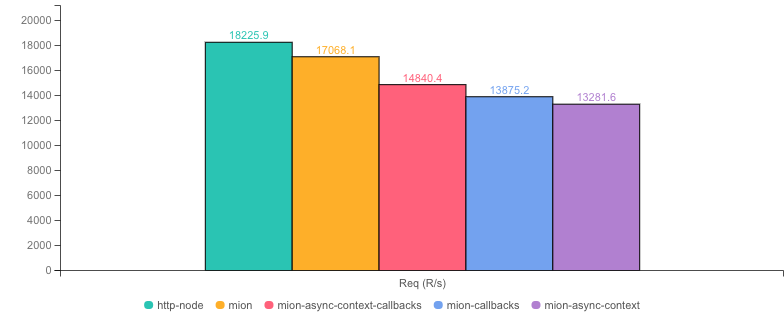
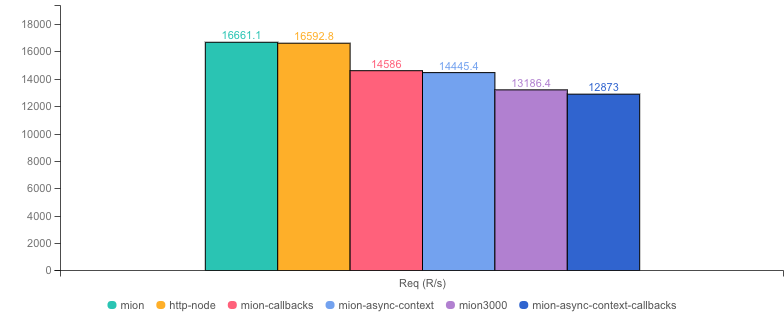
add memory chart to main benchmark readme and add mion 3000 routes test to mion options test

diff --git a/benchmark-compare.js b/benchmark-compare.js
@@ -49,14 +49,12 @@ async function getBenchmarkOptions() {
       name: "benchmark",
       choices: [
         {
-          name: "servers",
+          name: "servers: compare multiple libraries",
           value: "servers",
-          description: "compare multiple libraries",
         },
         {
-          name: "mion",
+          name: "mion options:s benchmarks mion using different settings and options",
           value: "mion",
-          description: "compare mion performance options",
         },
       ],
       validate: function (answer) {
@@ -79,15 +77,18 @@ async function runCompare() {
     const markdownChartImages = await getMarkdownCharts(outputResults);
 
     // memory series only available for mion benchmark
-    const memSeriesChartImages =
+    const memSeriesToDisplay =
       options.benchmark === "mion"
-        ? await getMarkdownChartMemSeries(
-            outputResults,
-            `memSeries`,
-            `Memory Series (MB)`,
-            chartsDirectory
-          )
-        : null;
+        ? ["mion", "mion3000", "http-node"]
+        : outputResults.map((result) => result.name);
+    const memSeriesChartImages = await getMarkdownChartMemSeries(
+      outputResults,
+      `memSeries`,
+      `Memory Series (MB)`,
+      chartsDirectory,
+      0,
+      memSeriesToDisplay
+    );
     await updateReadme(
       markdownChartImages,
       memSeriesChartImages,
@@ -119,7 +120,7 @@ async function updateReadme(
   const machineInfo = `${os.platform()} ${os.arch()} | ${
     os.cpus().length
   } vCPUs | ${(os.totalmem() / 1024 ** 3).toFixed(1)}GB Mem`;
-  const benchmarkMd = `### Benchmarks
+  const benchmarkMd = `## Benchmark Results
 
 * __Machine:__ ${machineInfo}
 * __Node:__ \`${process.version}\`
@@ -135,7 +136,7 @@ ${compareResults(true, outputResults)}
   const md = readFileSync(resultsMarkdownFilename, "utf8");
   writeFileSync(
     resultsMarkdownFilename,
-    md.split("### Benchmarks")[0] + benchmarkMd,
+    md.split("## Benchmark Results")[0] + benchmarkMd,
     "utf8"
   );
 }

diff --git a/benchmarks/mion3000.js b/benchmarks/mion3000.js
@@ -1,0 +1,22 @@
+"use strict";
+
+const { initHttp, addRoutes, routes } = require("../_compiled-apps/apps");
+const { startHttpServer } = require("@mionkit/http");
+
+// ###### check the apps/ directory for the original non compiled code
+// mion needs to be compiled from typescript to be able to generate runtime types metadata
+
+const totalRoutes = 3000;
+// this handler contains type information.
+const routerRoutes = {
+  ...routes,
+};
+for (let i = 0; i < totalRoutes; ++i) {
+  const defaultRoute = i % 2 === 0 ? routes["/"] : routes.updateUser;
+  routerRoutes[`route-${i}`] = defaultRoute;
+}
+
+initHttp({});
+addRoutes(routes);
+
+startHttpServer({ port: 3000 });

diff --git a/benchmark-bench.js b/benchmark-bench.js
@@ -44,14 +44,12 @@ async function getBenchmarkOptions() {
       name: "benchmark",
       choices: [
         {
-          name: "servers",
+          name: "servers => compare multiple libraries",
           value: "servers",
-          description: "compare multiple libraries",
         },
         {
-          name: "mion",
+          name: "mion options => benchmarks mion using different settings and options",
           value: "mion",
-          description: "compare mion performance options",
         },
       ],
       validate: function (answer) {

diff --git a/lib/chart-screenshot.js b/lib/chart-screenshot.js
@@ -72,9 +72,12 @@ module.exports.getMarkdownChartMemSeries = async function (
   metricName,
   metricLabel,
   chartDirectory,
-  maxToDisplay = 3
+  maxToDisplay = 3,
+  namesToDisplay = []
 ) {
-  const slicedResults = outputResults.slice(0, maxToDisplay);
+  const slicedResults = namesToDisplay.length
+    ? outputResults.filter((result) => namesToDisplay.includes(result.name))
+    : outputResults.slice(0, maxToDisplay);
   const columnsData = slicedResults.map((result) => [
     `${result.name}`,
     ...result.memSeries,

diff --git a/lib/packages-mion-options.js b/lib/packages-mion-options.js
@@ -42,6 +42,14 @@ const packages = {
     description:
       "using mion http with callbacks and sync call context `RouterOptions.useAsyncCallContext = true`",
   },
+  mion3000: {
+    hasRouter: true,
+    package: "@MionKit/compiled-app",
+    validation: "✓",
+    version: "0.1.0",
+    description:
+      "mion with 3000 routes loaded (should have the most memory usage)",
+  },
 };
 
 const choices = [];

diff --git a/README.md b/README.md
@@ -31,20 +31,26 @@
 # start the tests
 npm start
 
-# display results in a table
-npm run compare-t
+# update readmes in readmes
+npm run compare:summary
+
+# running all benchmarks and update all readmes
+npm run report
 ```
 
-## Other benchmarks
+### Cold start benchmarks
 
-- **Multiple mion settings:** [MION-OPTIONS.md](MION-OPTIONS.md)  
-  Running the same application but using different mion settings.
 - **Cold start times:** [METRICS.md](METRICS.md)  
   Cold start times are also indicative of how the [serverless version](https://github.com/MionKit/mion/tree/master/packages/serverless) could perform in this regard, as both `@MionKit/http` an `@MionKit/serverless` are just a wrapper around `@MionKit/router` which contains all the logic.
 
-## What's tested
+### Mion settings benchmarks
 
-The test consist of an `updateUser` request where the fields of the user must be validated, the `lastUpdate` field is a date that must be transformed into a JS Date (deserialized), then add one month to `lastUpdate` and then send back the response.
+- **Multiple mion settings:** [MION-OPTIONS.md](MION-OPTIONS.md)  
+  Running the same mion application but using different mion settings.
+
+### What's tested
+
+The test consist of an `updateUser` request where the fields of the user must be validated, the `lastUpdate` field is a date that must be transformed into a JS Date (deserialized), then add one month and send back in the response.
 
 ```ts
 export interface User {
@@ -67,7 +73,7 @@ export const routes: Routes = {
 // ### Express ###
 // A plugin must be used to parse the json body
 // validation must be done manually and user.lastUpdate must be deserialized manually into a date
-// in this example the complexity would be in the isUser and deserializeUser functions (check src code fo that)
+// in this case developer would have to manually write `isUser` and `deserializeUser` functions. (check src code fo those functions)
 app.post("/updateUser", function (req, res) {
   const rawUser = req.body?.updateUser;
   if (!isUser(rawUser)) throw "app error, invalid parameter, not a user";
@@ -77,12 +83,20 @@ app.post("/updateUser", function (req, res) {
 });
 ```
 
-### Benchmarks
+### Notes on current results
+
+mion is focused on being lightweight and fast so it can be run in serverless environments. We run the benchmarks before every PR gets merged to ensure there is no performance regression. In fact there are [PRs](https://github.com/MionKit/mion/pull/48) that has been rejected because of this.
+
+Our goal is to perform similar to fastify as it is the industry standard in terms of performance. Please always take benchmarks as general guidelines as you might obtain different results in your real world application. we just run the benchmarks to ensure there is no performance degradation when new features/fixes are added to mion.
+
+We are aware that the memory consumption is higher than other frameworks, this said it is mostly the baseline memory (when the server just started) and mion is actually less memory hungry under heavy workloads. This is due mostly due to our dependency on @deepkit/types for run time types. We are aware of this and plan to work on it in the future. Please note both mion and deepkit are still in beta an there is room for improvement.
+
+## Benchmark Results
 
 * __Machine:__ darwin x64 | 8 vCPUs | 16.0GB Mem
 * __Node:__ `v16.18.0`
-* __Run:__ Mon Jul 17 2023 22:59:01 GMT+0100 (Irish Standard Time)
-* __Method:__ `autocannon -c 100 -d 40.06 -p 10 localhost:3000` (two rounds; one to warm-up, one to measure)
+* __Run:__ Tue Jul 18 2023 22:01:37 GMT+0100 (Irish Standard Time)
+* __Method:__ `autocannon -c 100 -d 40.24 -p 10 localhost:3000` (two rounds; one to warm-up, one to measure)
 
 #### Req (R/s) 
 
@@ -108,14 +122,18 @@ app.post("/updateUser", function (req, res) {
 
 
 
+#### Memory Series (MB) 
+
+![benchmarks](assets/public/charts-servers/memSeries.png)
+
 
 
 |           | Version        | Router | Req (R/s)   | Latency (ms) | Output (Mb/s) | Max Memory (Mb) | Max Cpu (%) | Validation | Description                                                                                                |
 | :--       | --:            | --:    | :-:         | --:          | --:           | --:             | --:         | :-:        | :--                                                                                                        |
-| http-node | 16.18.0        | ✗      | 17858.5     | 55.47        | 4.56          | 82              | 120         | ✗          | Super basic and completely useless bare http server, should be the theoretical upper limit in performance. |
-| **mion**  | **0.1.0**      | **✓**  | **17249.7** | **57.47**    | **4.79**      | **225**         | **146**     | **✓**      | **validation and serialization out of the box**                                                            |
-| fastify   | 4.19.2         | ✓      | 16198.6     | 61.22        | 4.16          | 90              | 120         | -          | Validation is done using schemas and ajv. Schemas must be generated manually or using third party tools.   |
-| restify   | 8.6.1          | ✓      | 12033.8     | 82.56        | 3.10          | 104             | 118         | ✗          | Requires third party tools.                                                                                |
-| hapi      | 20.3.0         | ✓      | 7936.3      | 125.38       | 2.03          | 97              | 130         | ✗          | Manual validation using joi, or third party tools.                                                         |
-| deepkit   | 1.0.1-alpha.75 | ✓      | 5426.2      | 183.45       | 1.39          | 301             | 142         | ✓          | Automatic validation out of the box (The ones that made @deepkit/types), Their rpc is way more performant. |
-| express   | 4.18.2         | ✓      | 4615.0      | 215.68       | 1.18          | 112             | 125         | ✗          | needs third party tools, or third party tools                                                              |
+| http-node | 16.18.0        | ✗      | 16419.9     | 60.70        | 4.20          | 79              | 120         | ✗          | Super basic and completely useless bare http server, should be the theoretical upper limit in performance. |
+| **mion**  | **0.1.0**      | **✓**  | **16289.9** | **60.91**    | **4.52**      | **229**         | **144**     | **✓**      | **validation and serialization out of the box**                                                            |
+| fastify   | 4.19.2         | ✓      | 14725.8     | 67.41        | 3.78          | 88              | 118         | -          | Validation is done using schemas and ajv. Schemas must be generated manually or using third party tools.   |
+| restify   | 8.6.1          | ✓      | 11138.1     | 89.26        | 2.87          | 102             | 116         | ✗          | Requires third party tools.                                                                                |
+| hapi      | 20.3.0         | ✓      | 6941.5      | 143.40       | 1.77          | 102             | 135         | ✗          | Manual validation using joi, or third party tools.                                                         |
+| deepkit   | 1.0.1-alpha.75 | ✓      | 5289.1      | 188.17       | 1.35          | 318             | 159         | ✓          | Automatic validation out of the box (The ones that made @deepkit/types), Their rpc is way more performant. |
+| express   | 4.18.2         | ✓      | 4399.4      | 226.40       | 1.12          | 112             | 124         | ✗          | needs third party tools, or third party tools                                                              |

diff --git a/MION-OPTIONS.md b/MION-OPTIONS.md
@@ -24,12 +24,12 @@ There is no one size fits all when optimizing performance, so mion offers few se
 
 We show the benchmarks and let you take your own conclusions!!
 
-### Benchmarks
+## Benchmark Results
 
 * __Machine:__ darwin x64 | 8 vCPUs | 16.0GB Mem
 * __Node:__ `v16.18.0`
-* __Run:__ Mon Jul 17 2023 22:51:55 GMT+0100 (Irish Standard Time)
-* __Method:__ `autocannon -c 100 -d 40.02 -p 10 localhost:3000` (two rounds; one to warm-up, one to measure)
+* __Run:__ Tue Jul 18 2023 21:51:52 GMT+0100 (Irish Standard Time)
+* __Method:__ `autocannon -c 100 -d 40.06 -p 10 localhost:3000` (two rounds; one to warm-up, one to measure)
 
 #### Req (R/s) 
 
@@ -55,12 +55,6 @@ We show the benchmarks and let you take your own conclusions!!
 
 
 
-#### Max Cpu (%) 
-
-![benchmarks](assets/public/charts-mion/maxCpu.png)
-
-
-
 #### Memory Series (MB) 
 
 ![benchmarks](assets/public/charts-mion/memSeries.png)
@@ -69,8 +63,9 @@ We show the benchmarks and let you take your own conclusions!!
 
 |                              | Version   | Router | Req (R/s)   | Latency (ms) | Output (Mb/s) | Max Memory (Mb) | Max Cpu (%) | Validation | Description                                                                                     |
 | :--                          | --:       | --:    | :-:         | --:          | --:           | --:             | --:         | :-:        | :--                                                                                             |
-| http-node                    | 16.18.0   | ✗      | 18225.9     | 54.34        | 4.66          | 79              | 123         | ✗          | theoretical upper limit in performance.                                                         |
-| **mion**                     | **0.1.0** | **✓**  | **17068.1** | **58.07**    | **4.74**      | **224**         | **136**     | **✓**      | **using mion http with promises `HttpOptions.useCallbacks = false`**                            |
-| mion-async-context-callbacks | 0.1.0     | ✓      | 14840.4     | 66.85        | 4.71          | 101             | 121         | ✓          | using mion http with callbacks and sync call context `RouterOptions.useAsyncCallContext = true` |
-| mion-callbacks               | 0.1.0     | ✓      | 13875.2     | 71.51        | 4.41          | 214             | 139         | ✓          | using mion http with callbacks `HttpOptions.useCallbacks = true`                                |
-| mion-async-context           | 0.1.0     | ✓      | 13281.6     | 74.75        | 4.22          | 204             | 139         | ✓          | using mion http with promises and sync call context `RouterOptions.useAsyncCallContext = true`  |
+| **mion**                     | **0.1.0** | **✓**  | **16661.1** | **59.55**    | **4.62**      | **226**         | **148**     | **✓**      | **using mion http with promises `HttpOptions.useCallbacks = false`**                            |
+| http-node                    | 16.18.0   | ✗      | 16592.8     | 59.76        | 4.24          | 83              | 129         | ✗          | theoretical upper limit in performance.                                                         |
+| mion-callbacks               | 0.1.0     | ✓      | 14586.0     | 68.02        | 4.63          | 102             | 136         | ✓          | using mion http with callbacks `HttpOptions.useCallbacks = true`                                |
+| mion-async-context           | 0.1.0     | ✓      | 14445.4     | 68.69        | 4.59          | 104             | 119         | ✓          | using mion http with promises and sync call context `RouterOptions.useAsyncCallContext = true`  |
+| mion3000                     | 0.1.0     | ✓      | 13186.4     | 75.32        | 4.19          | 209             | 143         | ✓          | mion with 3000 routes loaded (should have the most memory usage)                                |
+| mion-async-context-callbacks | 0.1.0     | ✓      | 12873.0     | 77.13        | 4.09          | 206             | 140         | ✓          | using mion http with callbacks and sync call context `RouterOptions.useAsyncCallContext = true` |

diff --git a/METRICS.md b/METRICS.md
@@ -9,7 +9,7 @@ Cold start times are measure using the http server but are also indicative of ho
 ## Metrics
 * __Machine:__ darwin x64 | 8 vCPUs | 16.0GB Mem
 * __Node:__ `v16.18.0`
-* __Run:__ Mon Jul 17 2023 23:02:18 GMT+0100 (Irish Standard Time)
+* __Run:__ Tue Jul 18 2023 21:26:55 GMT+0100 (Irish Standard Time)
 * __Method:__ `npm run metrics` (samples: 5)
 * __startup:__ time elapsed to setup the application
 * __listen:__ time elapsed until the http server is ready to accept requests (cold start)
@@ -22,28 +22,28 @@ Cold start times are measure using the http server but are also indicative of ho
 
   | | startup(ms) | listen(ms) |
   |-| -           | -          |
-| 10-startup-deepkit-routes.js | 1440 | 1442 |
-| 10-startup-fastify-routes.js | 149 | 221 |
-| 10-startup-mion-routes.js | 545 | 551 |
-| 100-startup-deepkit-routes.js | 1443 | 1445 |
-| 100-startup-fastify-routes.js | 166 | 334 |
-| 100-startup-mion-routes.js | 541 | 549 |
-| 500-startup-deepkit-routes.js | 1451 | 1453 |
-| 500-startup-fastify-routes.js | 251 | 795 |
-| 500-startup-mion-routes.js | 540 | 550 |
-| 1000-startup-deepkit-routes.js | 1462 | 1463 |
-| 1000-startup-fastify-routes.js | 354 | 1335 |
-| 1000-startup-mion-routes.js | 543 | 556 |
-| 2000-startup-deepkit-routes.js | 1453 | 1455 |
-| 2000-startup-fastify-routes.js | 567 | 2420 |
-| 2000-startup-mion-routes.js | 542 | 568 |
-| 3000-startup-deepkit-routes.js | 1475 | 1476 |
-| 3000-startup-fastify-routes.js | 827 | 3623 |
-| 3000-startup-mion-routes.js | 546 | 580 |
-| 4000-startup-deepkit-routes.js | 1484 | 1486 |
-| 4000-startup-fastify-routes.js | 1236 | 4873 |
-| 4000-startup-mion-routes.js | 543 | 582 |
-| 5000-startup-deepkit-routes.js | 1484 | 1486 |
-| 5000-startup-fastify-routes.js | 1767 | 6285 |
-| 5000-startup-mion-routes.js | 550 | 595 |
-| startup-listen.js | 604 | 607 |
+| 10-startup-deepkit-routes.js | 1469 | 1471 |
+| 10-startup-fastify-routes.js | 152 | 224 |
+| 10-startup-mion-routes.js | 550 | 556 |
+| 100-startup-deepkit-routes.js | 1454 | 1455 |
+| 100-startup-fastify-routes.js | 168 | 345 |
+| 100-startup-mion-routes.js | 547 | 555 |
+| 500-startup-deepkit-routes.js | 1462 | 1464 |
+| 500-startup-fastify-routes.js | 256 | 803 |
+| 500-startup-mion-routes.js | 546 | 556 |
+| 1000-startup-deepkit-routes.js | 1483 | 1484 |
+| 1000-startup-fastify-routes.js | 355 | 1343 |
+| 1000-startup-mion-routes.js | 550 | 564 |
+| 2000-startup-deepkit-routes.js | 1472 | 1474 |
+| 2000-startup-fastify-routes.js | 570 | 2444 |
+| 2000-startup-mion-routes.js | 549 | 576 |
+| 3000-startup-deepkit-routes.js | 1482 | 1484 |
+| 3000-startup-fastify-routes.js | 836 | 3662 |
+| 3000-startup-mion-routes.js | 548 | 583 |
+| 4000-startup-deepkit-routes.js | 1510 | 1511 |
+| 4000-startup-fastify-routes.js | 1241 | 4904 |
+| 4000-startup-mion-routes.js | 546 | 585 |
+| 5000-startup-deepkit-routes.js | 1496 | 1497 |
+| 5000-startup-fastify-routes.js | 1779 | 6365 |
+| 5000-startup-mion-routes.js | 559 | 605 |
+| startup-listen.js | 586 | 589 |
